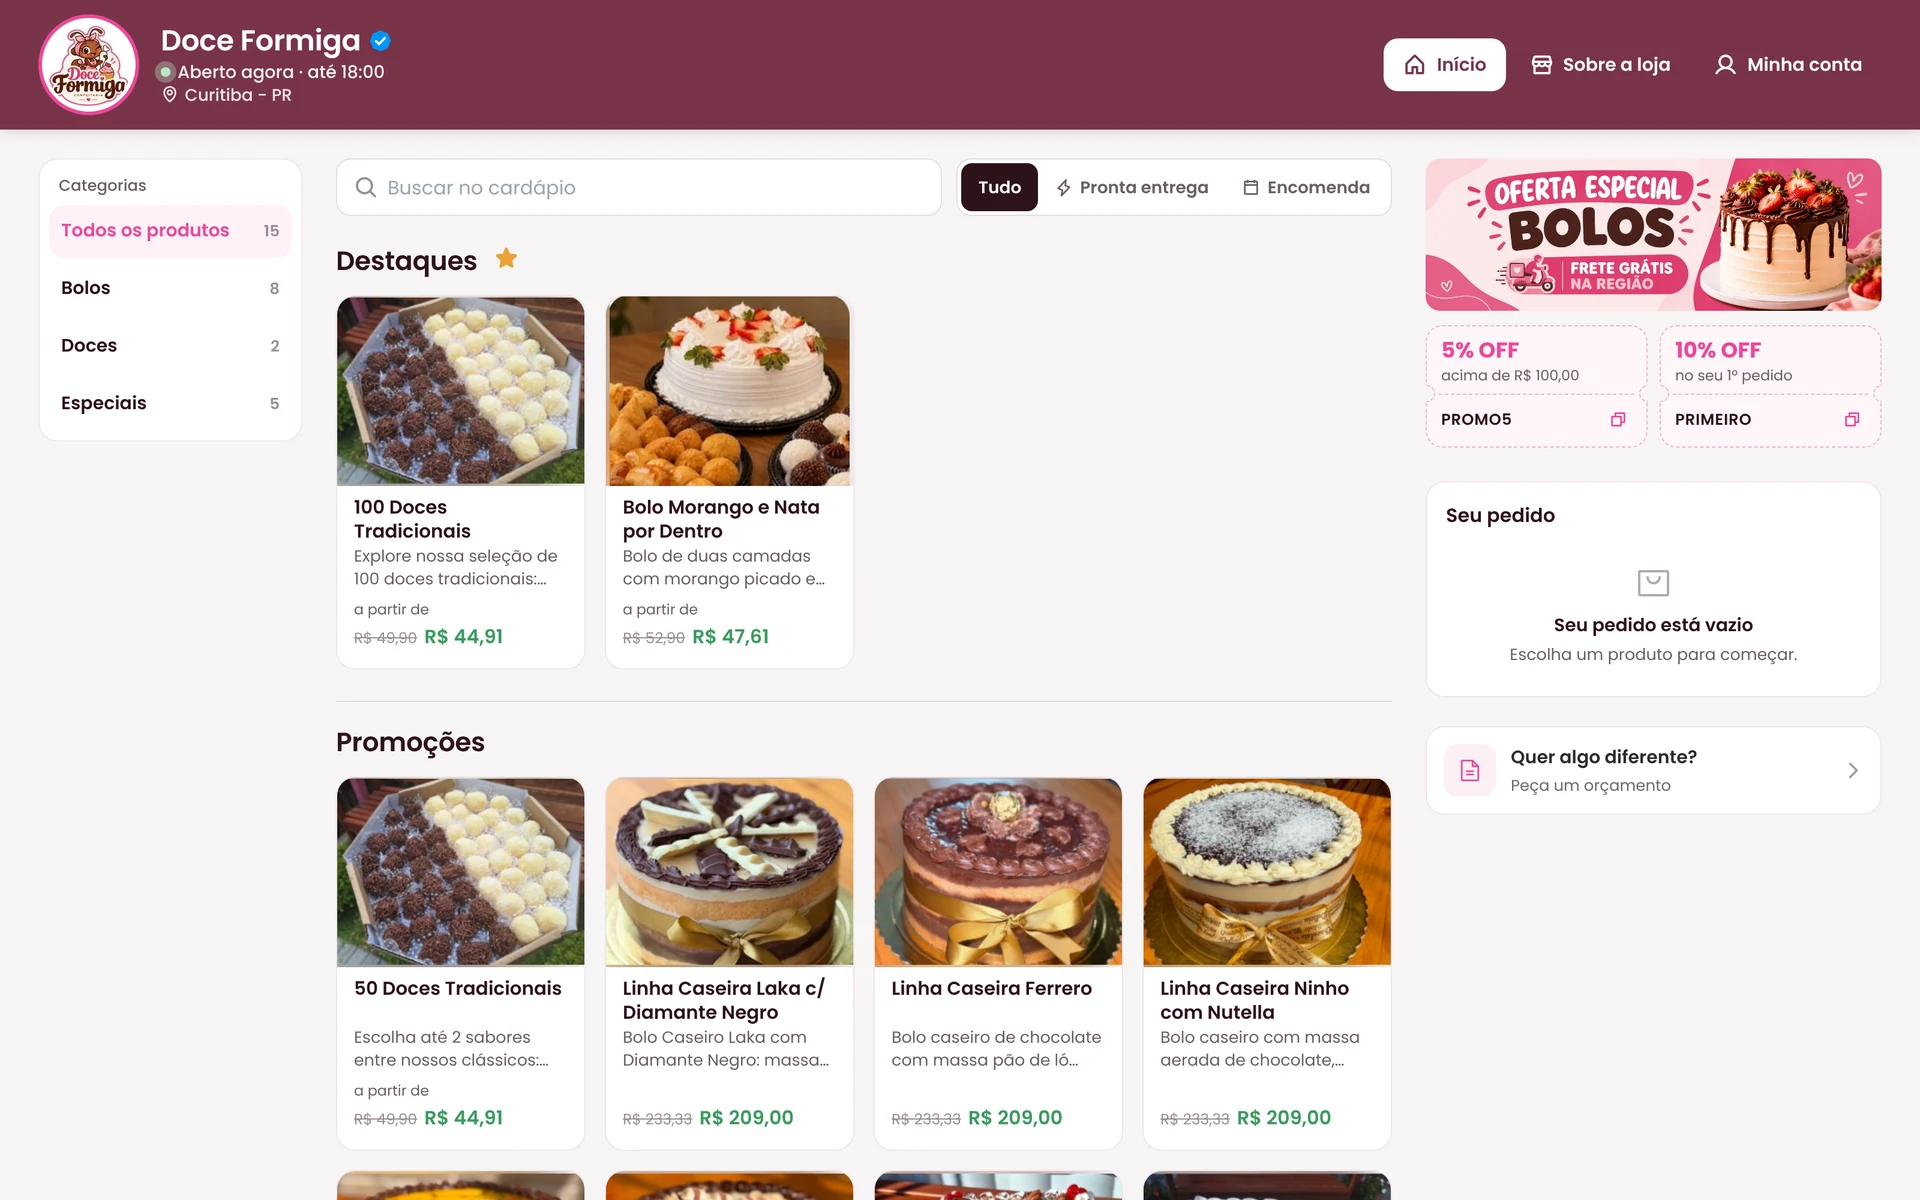
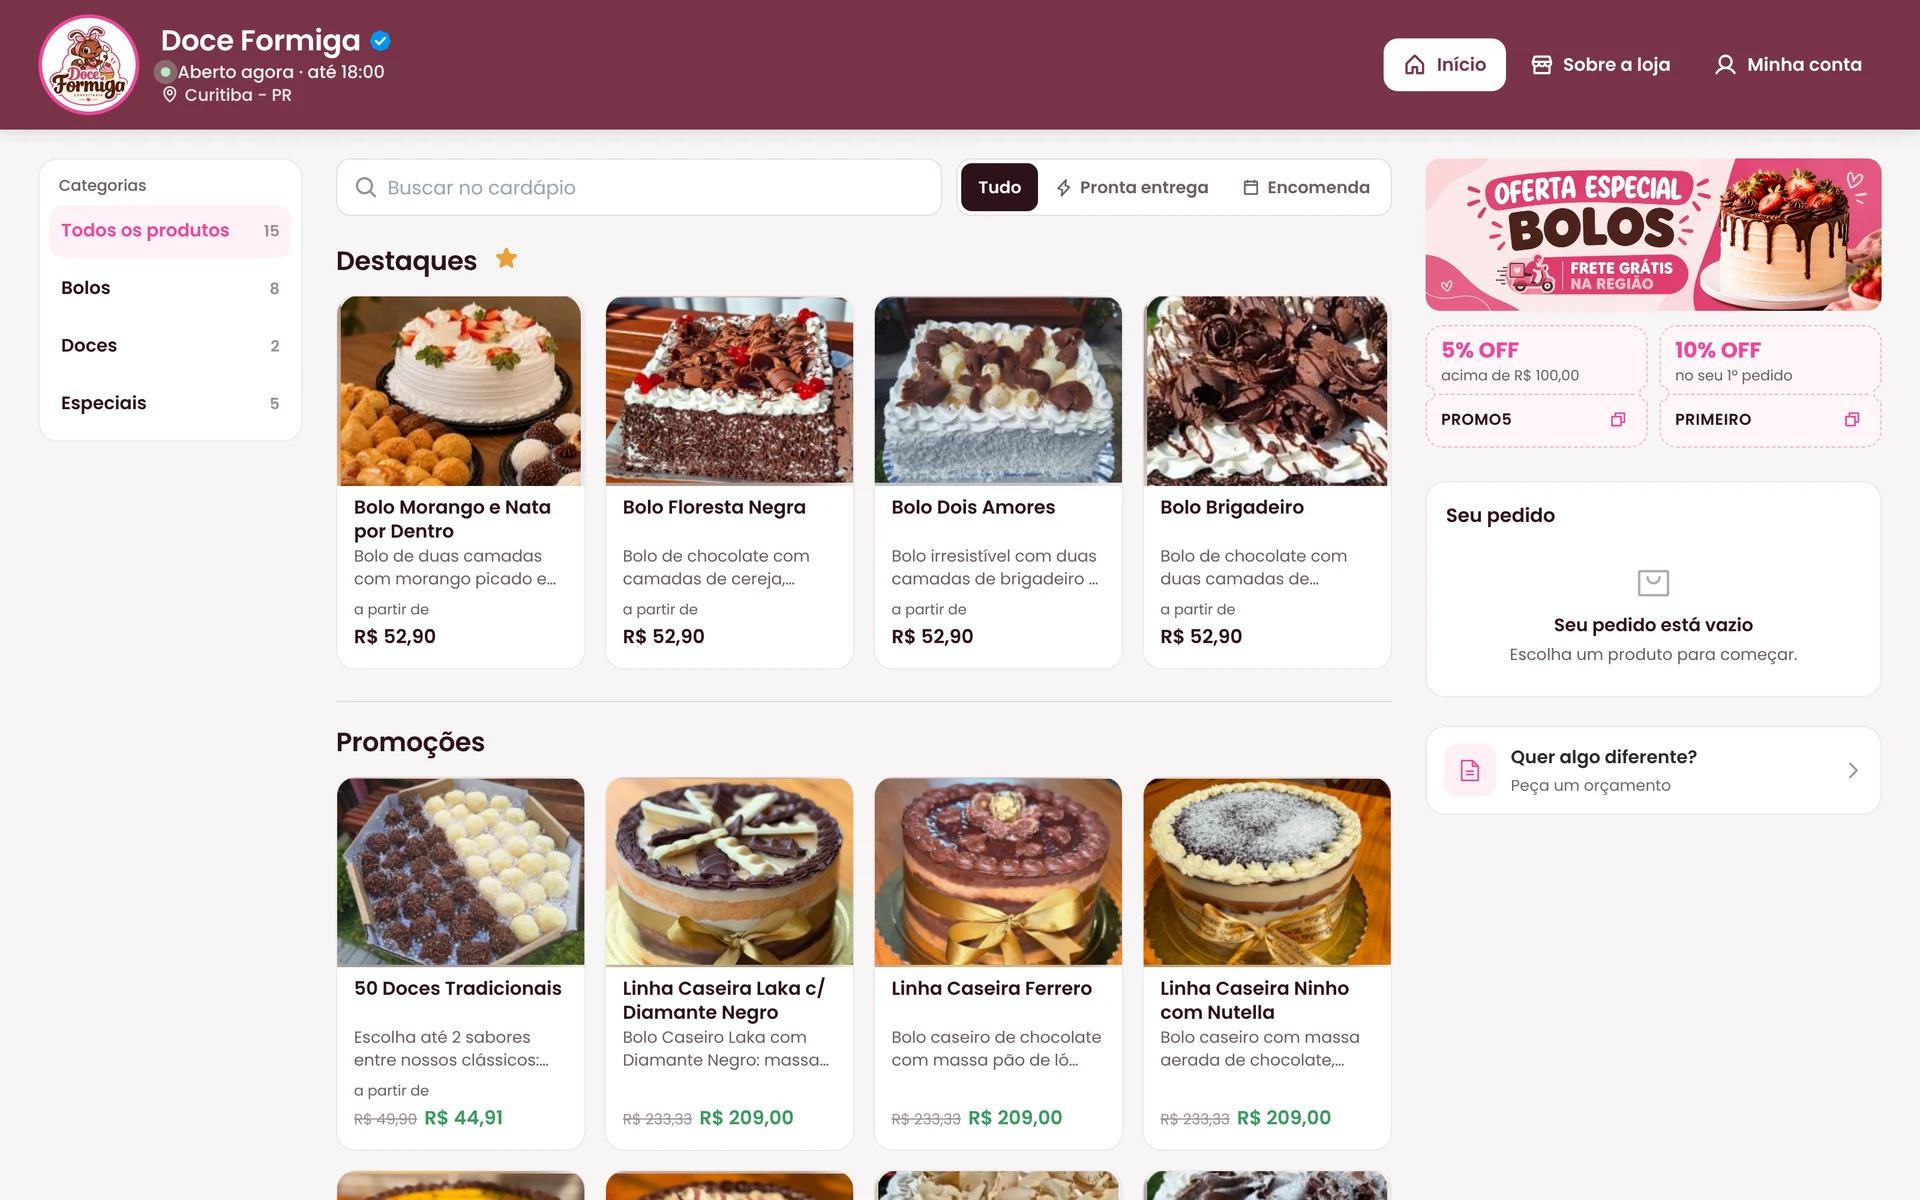
4.87: tutorial no PC — cardápio do notebook com 4 destaques e promoções sem repetir os mesmos produtos
Claude-Session: https://claude.ai/code/session_01Tr1mYrTU9rTShFnbh3vuaV

diff --git a/src/components/boasVindas/BoasVindas.tsx b/src/components/boasVindas/BoasVindas.tsx
@@ -481,7 +481,7 @@ function Celular({ children, className = '' }: { children: ReactNode; className?
 
 const PRINT_CEL = '/tutorial/cardapio-exemplo.jpg?v=3'
 const PRINT_CEL_MENU = '/tutorial/cardapio-exemplo-nav.jpg?v=3'
-const PRINT_PC = '/tutorial/cardapio-pc.webp?v=2' // (29/10 · 4.85) o cardápio da Doce Formiga desenhado pelo próprio app, em alta (sem recorte)
+const PRINT_PC = '/tutorial/cardapio-pc.webp?v=3' // (29/10 · 4.85) o cardápio da Doce Formiga desenhado pelo próprio app, em alta (sem recorte)
 
 function DemoCardapio() {
   return (

diff --git a/src/lib/versao.ts b/src/lib/versao.ts
@@ -2,4 +2,4 @@
  * Versão do app — aparece no menu da foto e vai junto nas sugestões e nos problemas relatados.
  * A cada atualização publicada, sobe 1 no número depois do ponto: 2.0 → 2.1 → 2.2 …
  */
-export const VERSAO_APP = "4.86";
+export const VERSAO_APP = "4.87";
